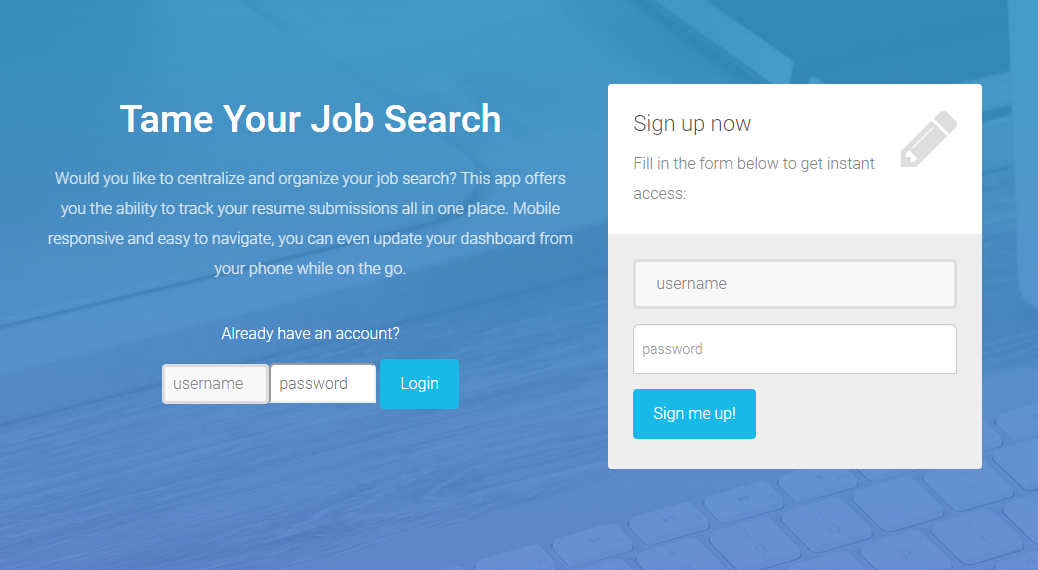
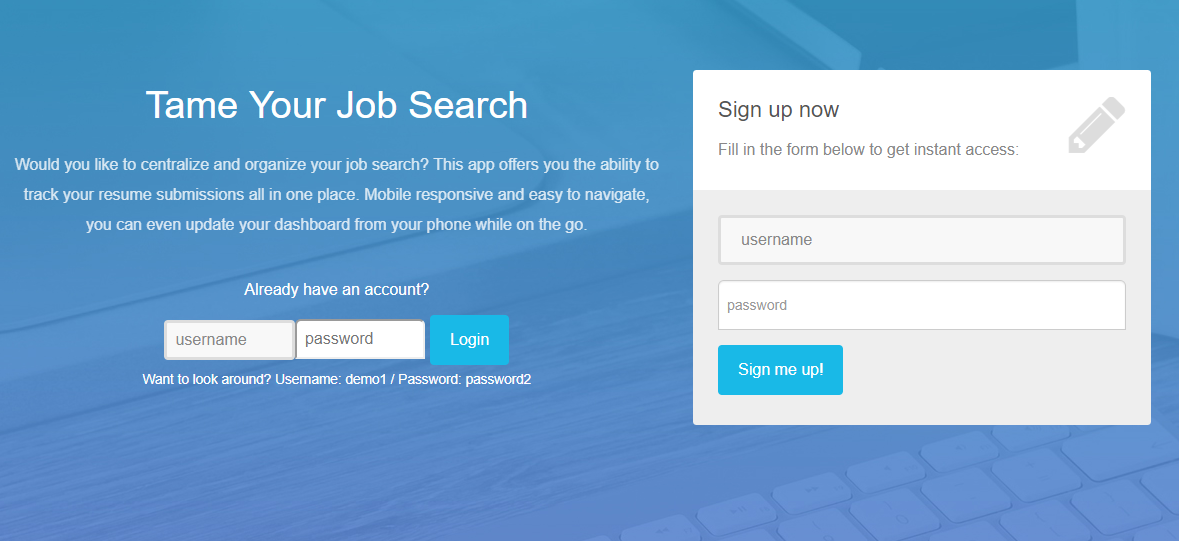
added screenshots

diff --git a/README.md b/README.md
@@ -2,4 +2,14 @@
 
 Would you like to centralize and organize your job search? This app offers you the ability to track your resume submissions all in one place. Mobile responsive and easy to navigate, you can even update your dashboard from your phone while on the go.
 
+### Index Page
 ![Tame Your Job Search Index Page](/public/assets/img/ss-index.png "Tame Your Job Search Index Page")
+
+### Dashboard
+![Tame Your Job Search Dashboard](/public/assets/img/ss-dashboard.png "Tame Your Job Search Dashboard")
+
+### Job List
+![Tame Your Job Search Job List](/public/assets/img/ss-joblist.png "Tame Your Job Search Job List")
+
+### Add a Job
+![Tame Your Job Search Add Job](/public/assets/img/ss-addjob.png "Tame Your Job Search Add Job")
